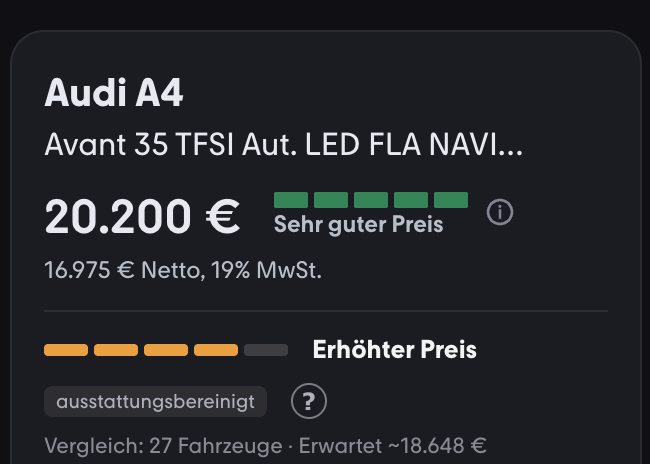
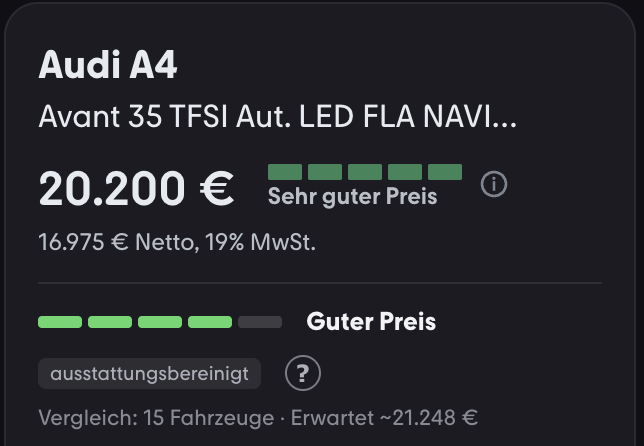
Screenshot Preisbewertung mit v2.16.54 (Balken wie mobile.de), Bildtexte angepasst

Changed region(s): [[0.0621, 0.0874, 0.8075, 0.6121], [0.0621, 0.6996, 0.7453, 0.991], [0.0311, 0.0, 0.9627, 0.0291]]

diff --git a/site/index.html b/site/index.html
@@ -140,8 +140,8 @@ footer{padding:28px 0 48px;border-top:1px solid var(--border);font-size:14px;col
       <figcaption>Gefundene Ausstattung und technische Daten auf der Fahrzeugseite</figcaption>
     </figure>
     <figure>
-      <img src="assets/preisbewertung.png" width="650" height="464" loading="lazy" alt="Ausstattungsbereinigte Preisbewertung unter dem Fahrzeugpreis: mobile.de zeigt Sehr guter Preis, das Userscript Erhöhter Preis nach Vergleich mit 27 Fahrzeugen">
-      <figcaption>Preisbewertung: mobile.de sagt „Sehr guter Preis“, ausstattungsbereinigt ist er erhöht</figcaption>
+      <img src="assets/preisbewertung.png" width="644" height="446" loading="lazy" alt="Ausstattungsbereinigte Preisbewertung unter dem Fahrzeugpreis: mobile.de zeigt Sehr guter Preis, das Userscript nach Vergleich mit 15 Fahrzeugen Guter Preis">
+      <figcaption>Preisbewertung: eigene, ausstattungsbereinigte Einordnung direkt unter mobile.des Balken</figcaption>
     </figure>
     <figure>
       <img src="assets/popup-merge-gruppen.png" width="1400" height="856" loading="lazy" alt="Konfigurations-Popup, Reiter Merge-Gruppen mit sortierbaren Chips und Beispiel">

diff --git a/README.md b/README.md
@@ -98,7 +98,7 @@ npm run build
 
 ### Preisbewertung neben dem Preis
 
-Unter dem Preis steht die eigene Einordnung, ausstattungsbereinigt und mit Anzahl der Vergleichsfahrzeuge. Im Beispiel wertet mobile.de den Preis als „Sehr guter Preis“, nach Abgleich mit 27 ähnlich ausgestatteten Fahrzeugen ergibt sich „Erhöhter Preis“ (erwartet ~18.648 €). Das **?** erklärt die Rechnung im Detail.
+Unter dem Preis steht die eigene Einordnung, ausstattungsbereinigt und mit Anzahl der Vergleichsfahrzeuge. Die Balken lesen sich wie bei mobile.de: mehr Balken = besserer Preis. Im Beispiel wertet mobile.de „Sehr guter Preis“; nach Abgleich mit 15 vergleichbaren Fahrzeugen und ihrer Ausstattung bleibt ein „Guter Preis“ (erwartet ~21.248 €). Das **?** erklärt die Rechnung im Detail.
 
 ![Ausstattungsbereinigte Preisbewertung unter dem Preis](./assets/preisbewertung.png)
 
